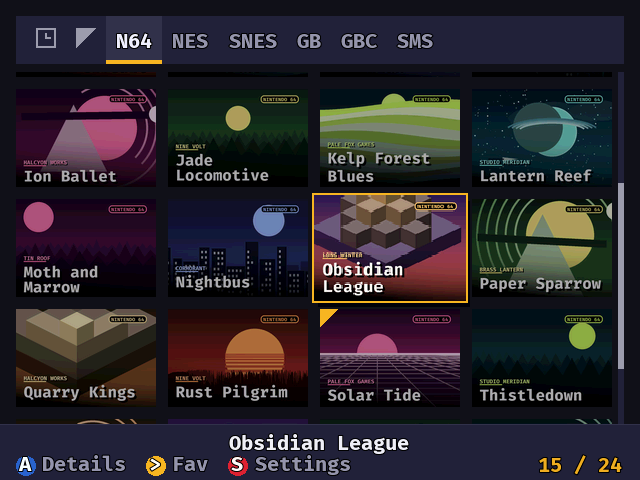
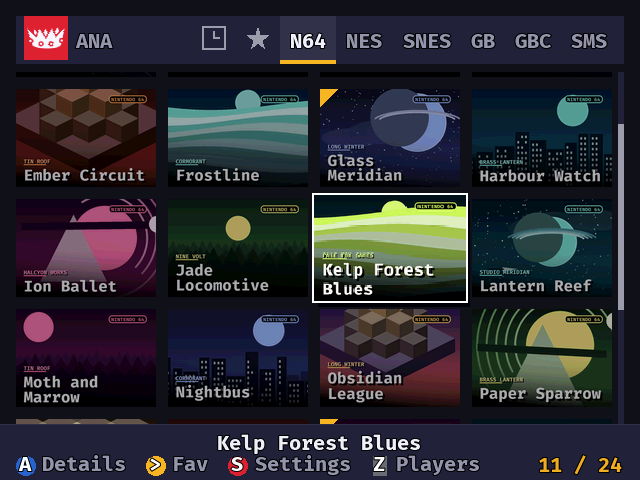
Record the boot order, and show the feature in the README
The README's screenshots predated players entirely -- the grid shot had no chip
in the tab bar -- and its callout claimed nothing had ever been written to a real
SD card, which stopped being true the moment the ROM was copied to one. It now
says the precise thing instead: every measurement is ares, nothing has been timed
on a console, svg64 has never run on one, and the SD-writing code has only been
exercised against ordinary files on a PC.

Eight shots now rather than four, captured from the demo tree at full resolution:
the picker, the appearance editor and the keyboard were the headline feature and
appeared nowhere. Two things the capture caught that the script had wrong -- the
boot plate swallows input, so a press one second after selecting a player never
happened and the rail never left RECENT; and the appearance editor opens on the
short last page of Treasure, where 32 sprites read as a screen that failed to
finish rather than as a corpus.

One claim had to be weakened. "Nothing on this page belongs to anyone else" is no
longer true now that the players are wearing game-icons.net sprites. The games,
covers and cheats are still all invented; the artwork is CC BY and says so under
the pictures.

CARD.md is the document describing what goes on a card and had zero mentions of
players. It gains the saves/pN layout, why player 1 is unsuffixed so that
upgrading a card cannot strand a save, what is shared against what is per player,
[…]

diff --git a/docs/AUDIT.md b/docs/AUDIT.md
@@ -3713,6 +3713,88 @@ else to live. It says "Players" now -- the chip carries the name, and printing i
 screen is not information.
 
 
+
+### Sixth pass: a plate is a highlight, and a column index is not a position
+
+**"When on the profile tab, recent tab is still highlighted."** Third go at the same thing. The
+active tab first kept both its `panel_alt` plate and its accent bar while the chip was selected,
+which drew two gold bars side by side into one 108 px stripe. Dropping the bar was not enough: a
+lit plate is still a lit plate, and the tab went on reading as the selected thing on a screen whose
+cursor was somewhere else. The tab gives up both now and keeps only its brighter label, which says
+"this is where R goes back to" without claiming to be selected.
+
+**Up and Down on the keyboard carried the column index, which is not the same as the position.**
+The rows are staggered like a real keyboard -- ASDFGHJKL is inset 30 px from QWERTYUIOP and
+ZXCVBNM is inset 88 -- so an index carried across a row change drifts right by half a key per row.
+Counted over the letter rows, **16 of the 26 downward moves landed on a key that was not
+underneath**: W went to S with A sitting under it, J went to M with N underneath, and the three
+keys past the end of a short row all piled onto its last one. Pressing down slid the cursor
+sideways.
+
+It moves to the physically nearest key now, measured against a remembered x that only *sideways*
+moves update -- the same rule a text editor uses for a line shorter than the one above, and what
+makes `P` down-down-up-up come back to `P` rather than drifting to `O`. Entering the action row
+picks SPACE or DONE by the same test, so what is below the cursor is what the cursor gets.
+
+Checked twice over: a model of the geometry enumerates every vertical move and every one of them
+now names the key underneath, and `tools/inputs/kb-updown.txt` walks the real thing in ares --
+`1` down three times reaches `Z`, `N` up twice reaches `I`, and `8` down four times reaches DONE,
+each exactly what the model said.
+
+**A category page that was not full could not be left downwards.** Down tested the cursor's row
+against the grid's five, and a separate clamp pulled any cursor that had landed past the end of a
+short page back to the last real cell. On a page that is not exactly 45 those two fought: Treasure
+page 2 holds 32, so Down from cell 27 moved to 36, found it empty, and got dragged back to 31 --
+*sideways*, along the same row -- and every Down after that did nothing. The Icon and Plate rows
+were unreachable.
+
+Not an obscure page, either. The editor opens on whichever page holds the profile's own sprite, and
+for a fresh profile 1 that is Treasure page 2 -- so this was the first thing anybody saw, and it is
+part of why the colour rows read as undiscoverable in the first place.
+
+Down now leaves the grid when there is nothing below the cursor, which is not the same question as
+being on the fifth row. Enumerated over every page shape -- 1 cell, 5, 9, 32, 45, and a full last
+page -- all of them reach the colour rows, and `tools/inputs/iconshort.txt` walks the real one.
+
+
+
+### The loading screen came after the thing it was loading for
+
+On a card with more than one player the order was: ten profile cards, cold and unannounced, then
+the player picks one, *then* the SC64 plate plays over the grid. The boot screen ran second.
+
+boot_plate.c argues at length that the plate must be an overlay and not a `SCREEN_BOOT`, because a
+screen of its own would have to hand over at t=1.64 to something arriving cold -- "one frame of
+empty grid before the first tile lands, which is precisely the second fade-in the spec rules out".
+That reasoning is intact and unchanged. What was wrong was the unstated assumption inside it: that
+the thing underneath is always the grid. It is whichever screen is first, and on a family's card
+that is the picker.
+
+So the plate is one instance in boot_plate.c rather than a struct the grid owns, armed by whichever
+screen gets there first and a no-op for the second. The grid keeps a flag of its own for choosing
+the opening tab, which still has to happen exactly once and is a different question.
+
+**The hold was doing work, and the work had to move with it.** The plate's 1.3-3.0 s hold is when
+covers decode at `DECODE_BUDGET_BOOT_US` -- 14,000 us a frame, free because nothing is animating
+and no input is accepted. That budget belonged to the grid's `background()`. Left there, moving the
+plate would have spent the hold on nothing and dropped the user onto a cold grid behind a curtain
+that had already lifted, which is the exact failure the plate exists to prevent, relocated rather
+than fixed. The picker spends the same budget on the same work now, and the constant moved to
+boot_plate.h because the plate's hold is the only reason it exists.
+
+Measured with `tools/inputs/bootorder.txt`. Four players (`DEMO=1`): the mark is up at frame 40,
+the log reads `BOOT plate held 1316 ms, released by the screen`, the curtain lifts on a picker
+whose four faces are already drawn, and the grid two presses later shows all four Recent covers
+painted -- no second plate and no second fade. One player (the fixture): identical, `1316 ms`,
+plate over the grid, which is what it always did. And the plate fires exactly once per boot --
+reaching the picker later through the chip logs no second `BOOT plate` line.
+
+Readiness is per screen. The grid waits for its first row of covers; the picker waits for the faces
+on its cards, skipping any slot whose sprite the pack does not contain -- `icon_get()` answers NULL
+both for "not decoded yet" and for "no such icon", so a capped build would otherwise hold every
+boot to the 3.00 s ceiling.
+
+
 ---
 
 ### Not done

diff --git a/README.md b/README.md
@@ -6,21 +6,35 @@ Put your games on an SD card in whatever arrangement suits you, and the menu pre
 **games rather than files**: a grid of covers you scroll through, that remembers what you played
 and how long for. There is nothing to prepare in advance and no list to hand-write.
 
+Up to ten people can share the card. Each picks a name and a face, and keeps their own saves,
+favourites, play history and cheat selections.
+
 > [!IMPORTANT]
-> **This has never run on a real console, and nothing has ever been written to a real SD card.**
-> Everything here was developed and measured under [ares](https://ares-emu.net/), an emulator.
-> The open questions are listed in [AUDIT.md](docs/AUDIT.md).
+> **Every measurement in this repository was taken under [ares](https://ares-emu.net/), an
+> emulator.** Nothing here has been timed on a real console, the SVG rasteriser behind the player
+> icons has never run on one at all, and the code that writes to an SD card has only ever been
+> exercised against ordinary files on a PC — under ares the cartridge's own filesystem is
+> read-only, so the menu cannot reach it. The open questions are listed in
+> [AUDIT.md](docs/AUDIT.md), and [HARDWARE.md](docs/HARDWARE.md) is the order to bring a console
+> up in.
 
 | | |
 |---|---|
 | ![Scrolled](docs/images/demo-grid-scrolled.png) | ![Detail sheet](docs/images/demo-detail.png) |
-| The grid. The bar on the right is your position; the yellow corner marks a favourite. | The detail sheet: what you have played, and how many cheats are switched on. |
-| ![Cheats](docs/images/demo-cheats.png) | ![Settings](docs/images/demo-settings.png) |
-| Cheats, as named groups rather than raw codes. | Settings, and what the menu found on your card. |
+| The grid. The bar on the right is your position; the yellow corner marks a favourite. The face at the left of the tab bar is whoever is playing. | The detail sheet: what you have played, and how many cheats are switched on. |
+| ![Who's playing](docs/images/demo-players.png) | ![Appearance](docs/images/demo-appearance.png) |
+| Ten slots. One press left of the first tab, or Z from anywhere on the grid. | Choosing a face out of 3,894, and the two colours it is drawn in. |
+| ![Keyboard](docs/images/demo-keyboard.png) | ![Cheats](docs/images/demo-cheats.png) |
+| Naming a player. The same keyboard names a cheat. | Cheats, as named groups rather than raw codes. |
+| ![Settings](docs/images/demo-settings.png) | ![Credits](docs/images/demo-credits.png) |
+| Settings, and what the menu found on your card. | Every licence the cartridge owes, carried in the cartridge. |
 
 **Every game, every cover and every cheat above is invented.**
-[`tools/mkdemo.py`](tools/mkdemo.py) draws original box art for titles that do not exist, so
-nothing on this page belongs to anyone else.
+[`tools/mkdemo.py`](tools/mkdemo.py) draws original box art for titles that do not exist, and the
+four players are made up as well, so no product on this page belongs to anyone else. The one thing
+that is not ours is the artwork the players are wearing: those are [game-icons.net](https://game-icons.net)
+sprites under CC BY, and the authors are named below, in [CREDITS.md](docs/CREDITS.md), and on the
+menu's own credits screen.
 
 ---
 
@@ -36,6 +50,8 @@ See [BUILDING.md](docs/BUILDING.md).
 ## Documentation
 
 - [CARD.md](docs/CARD.md) — what goes on the SD card, and where covers come from.
+- [CREDITS.md](docs/CREDITS.md) — every licence the cartridge owes, and the source offer. This is
+  the file the credits screen is built from; it is not a copy of it.
 - [AUDIT.md](docs/AUDIT.md) — every measurement, every dead end, every wrong turn. Append-only.
 - [DESIGN.md](docs/DESIGN.md) — layout geometry, and where the design and the code disagree.
 - [HARDWARE.md](docs/HARDWARE.md) — the order to bring hardware up in, and why that order.
@@ -73,10 +89,15 @@ flashcart this fork no longer supports.
 * [picojpeg](src/libs/picojpeg) - public domain, by Rich Geldreich
 
 ## Icons
-The icons players choose from are from [game-icons.net](https://game-icons.net), under
+The 3,894 icons players choose from are from [game-icons.net](https://game-icons.net), under
 [CC BY 3.0](https://creativecommons.org/licenses/by/3.0/) (a few authors CC0). That is an
 attribution licence and the cartridge is what redistributes, so all 36 authors are named in
 [docs/CREDITS.md](docs/CREDITS.md) and on the menu's own credits screen.
+
+They ride in the cartridge as SVG text, about 6 MB of it, and are turned into pixels by
+[svg64](src/libs/svg64) at the moment one is needed — which is why there can be several thousand
+of them and why they follow whatever colours a player picks. The artwork itself is never committed
+to this repository.
 
 ## Sounds
 See [License](https://pixabay.com/en/service/license-summary/) for the following sounds:

diff --git a/docs/CARD.md b/docs/CARD.md
@@ -10,6 +10,7 @@ your games                                 anywhere, in any arrangement you like
 /cheats.db                                 the cheat database
 /metadata/…                                a downloaded box-art pack
 /mainmenu/                                 created by the menu; see below
+<game folder>/saves/                       created when a game saves; see Players
 ```
 
 **How you arrange your games is up to you.** The menu searches the whole card, five levels deep,
@@ -26,11 +27,41 @@ card out of your library.
 `lithium64.z64` and so on, and every one of those is a normal game extension. Without the skip
 they would all appear in your library as games.
 
-**Where the menu puts its own files.** `/mainmenu/` holds `config.ini`, the parental file and a
-`cache/` folder of decoded covers and play history. All of it is disposable: delete the folder and
-the menu rebuilds it from your card, losing only your settings, your favourites and your play
-history. The three places above are each *also* looked for inside `/mainmenu/`, and in a `/menu/`
-folder if you have one from an older version, so an existing card needs no rearranging.
+**Where the menu puts its own files.** `/mainmenu/` holds `config.ini`, the parental file, the
+player roster and a `cache/` folder of decoded covers and play history. All of it is disposable
+except the roster: delete the folder and the menu rebuilds it from your card, losing your settings,
+your favourites, your play history and the names and faces your players chose. **Your saved games
+are not in there** and are never touched by deleting it. The three places above are each *also*
+looked for inside `/mainmenu/`, and in a `/menu/` folder if you have one from an older version, so
+an existing card needs no rearranging.
+
+## Players
+
+Up to ten people can share a card. A card with one player looks exactly like a card from before
+this existed, and that is deliberate rather than incidental — **player 1 writes where the menu has
+always written**, so upgrading cannot strand a save:
+
+```
+<game folder>/saves/Game.sav               player 1
+<game folder>/saves/p2/Game.sav            player 2
+/mainmenu/cache/playstate.dat              player 1's favourites and history
+/mainmenu/cache/p2/playstate.dat           player 2's
+/mainmenu/profiles.ini                     the roster: names, faces, colours
+```
+
+Saves sit beside the game they belong to rather than in one place, because that is where the menu
+already put them.
+
+Cheat *definitions* are shared — one `cheats.db` for the card — but which of them are switched on
+is per player. So is the play history. The parental code is deliberately **not**: it is one code
+for the whole card, so switching player can never be the way around a locked game.
+
+`profiles.ini` is the one file under `/mainmenu/` worth keeping. Deleting it does not lose a save,
+but every player comes back nameless and faceless in slot order.
+
+**Deleting a player deletes their saved games.** The menu counts them and says how many before it
+asks, and player 1 cannot be deleted at all — those are the unsuffixed paths above, which on a card
+that predates players is every save on it.
 
 | system | file types |
 |---|---|
